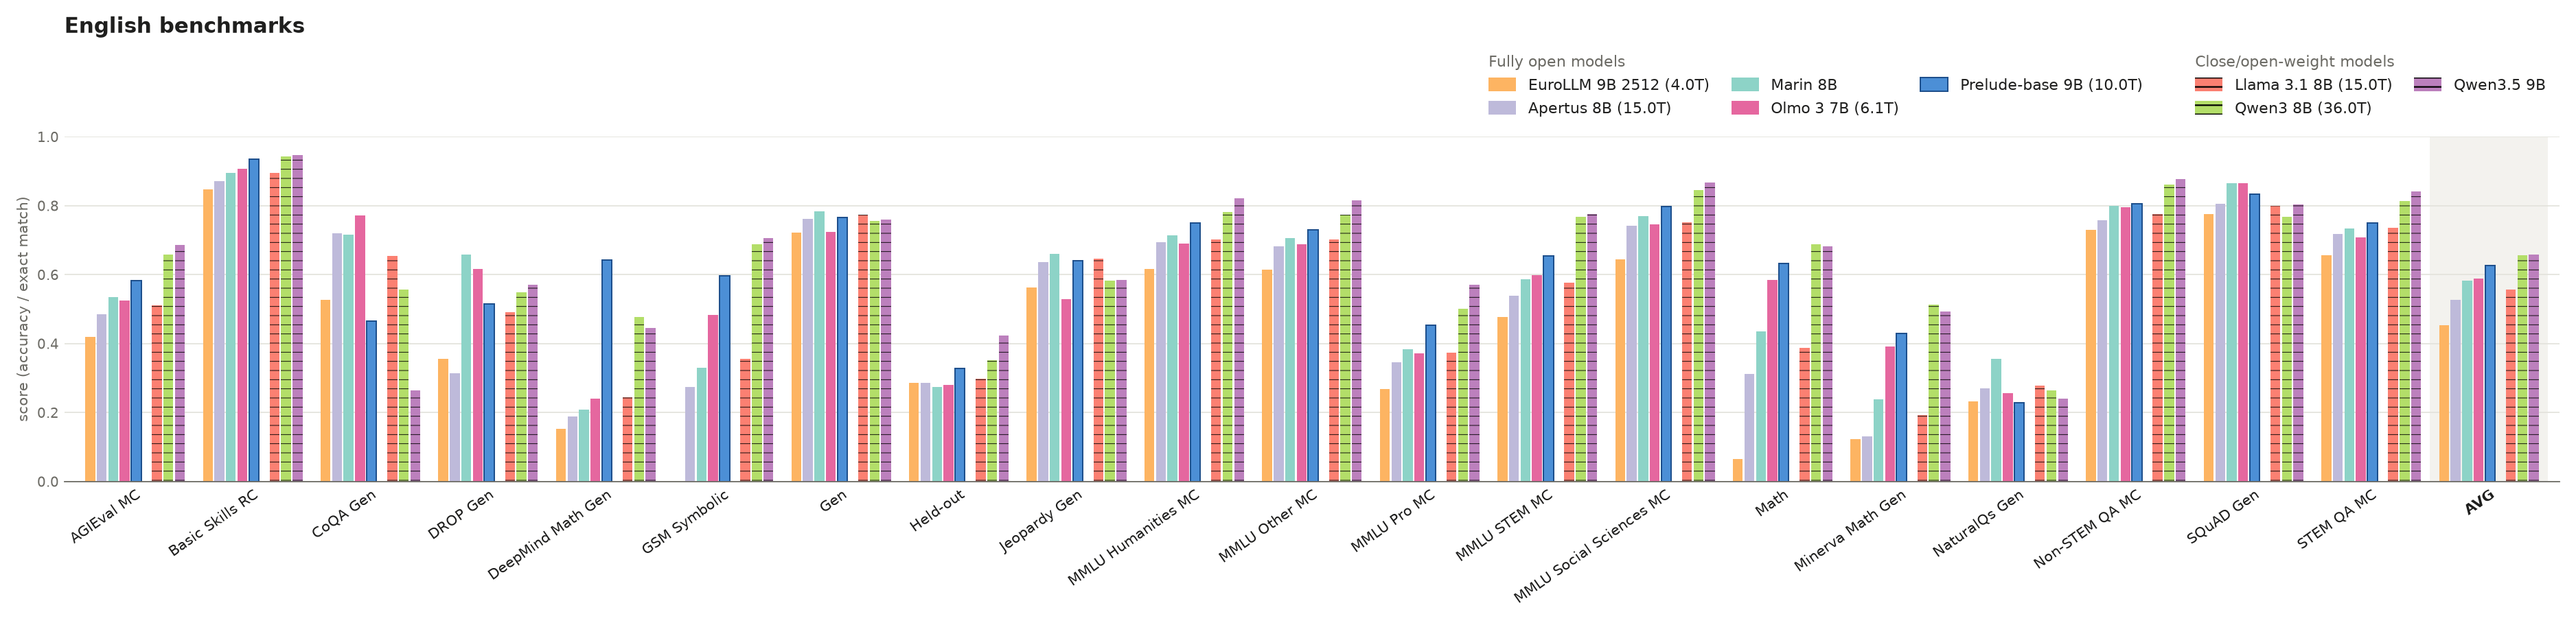
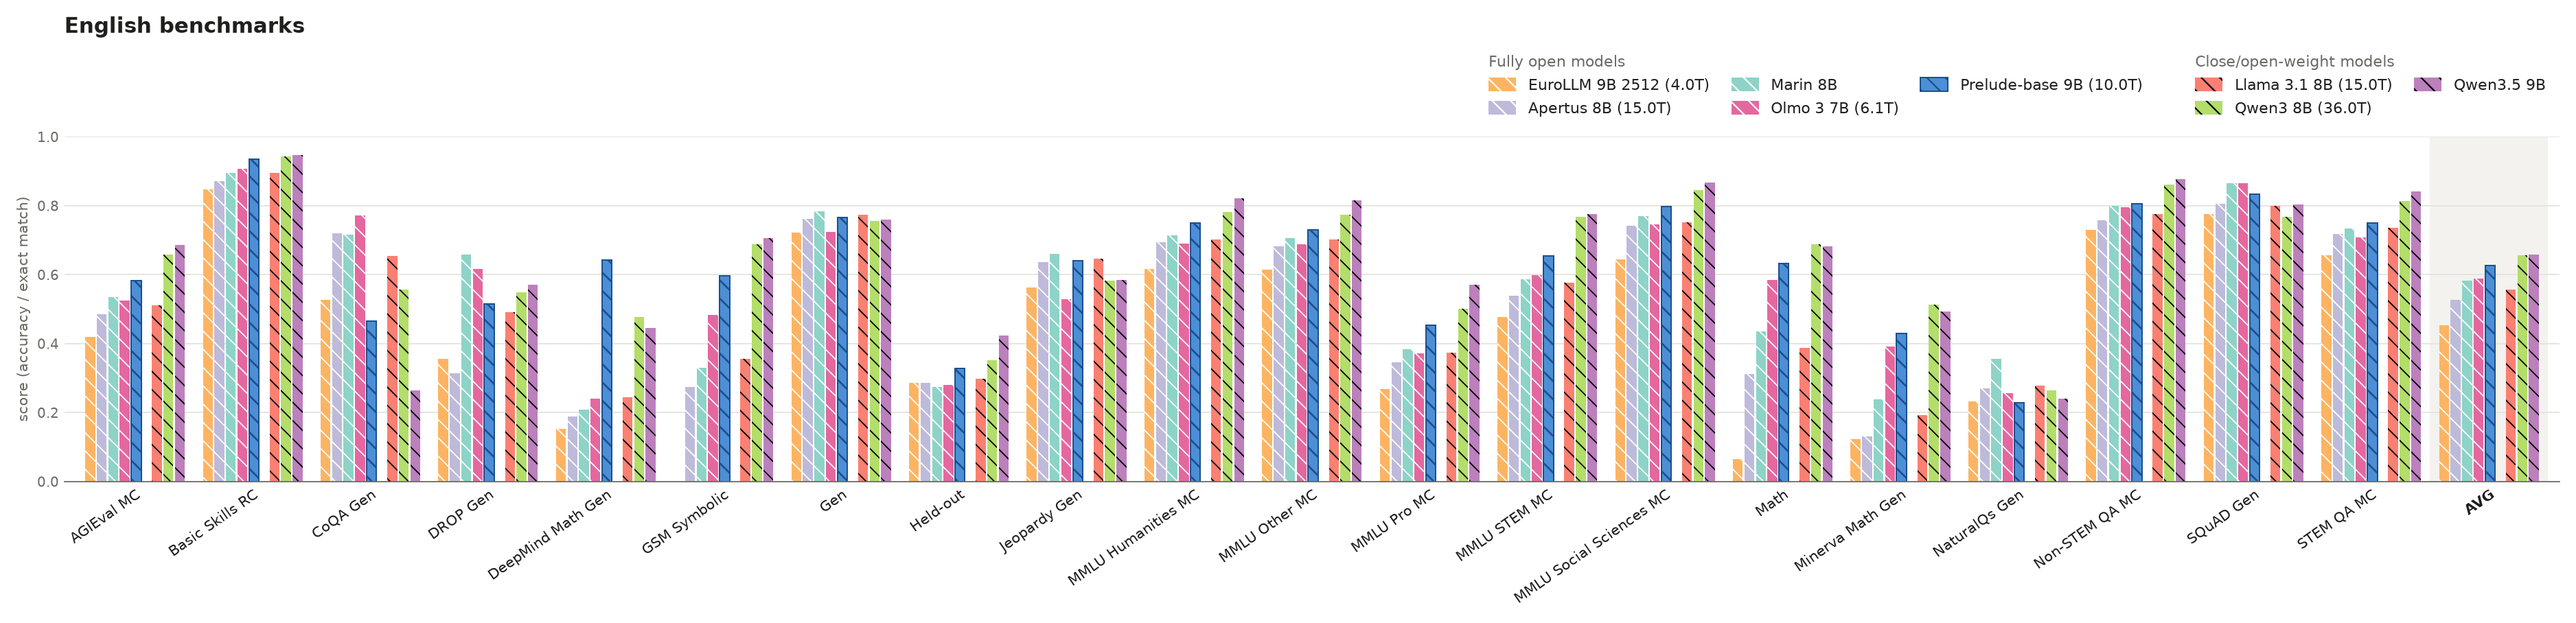
plot edit

diff --git a/prelude-evaluations-model-card/plot_results.py b/prelude-evaluations-model-card/plot_results.py
@@ -205,15 +205,16 @@ DISPLAY = {"Prelude 9B": "Prelude-base 9B",
 NOREVAL_METRICS = ["acc", "f1", "em_first", "errant_f05"]
 
 # One colour per model across all plots (models never shown together share
-# one). Fill encodes openness: solid = fully open (weights + data + code),
-# black horizontal hatch over the fill = open weights only. Every Prelude
-# variant is the same blue; the 8T (pre-anneal) one has a white '\\' hatch.
+# one). Hatch encodes openness: white diagonal = fully open (weights + data +
+# code), black diagonal = open weights only. Every Prelude checkpoint
+# is the same blue with a dark-blue outline and hatch (8T and 10T never
+# share a plot).
 # Baselines use Set3 colours (its blue left unused); Prelude a clearer blue.
 PRELUDE_BLUE = "#4c8fd6"
 PRELUDE_EDGE = "#1d4f8c"   # darker shade of PRELUDE_BLUE for the outline
-OPEN, WEIGHTS, INTERMEDIATE = "fully open", "open weights", "intermediate"
+OPEN, WEIGHTS = "fully open", "open weights"
 STYLES = {   # name -> (colour, style)
-    "Prelude 9B": (PRELUDE_BLUE, INTERMEDIATE),      # 8T, before the anneal
+    "Prelude 9B": (PRELUDE_BLUE, OPEN),              # 8T, before the anneal
     "Prelude 9B + 2T anneal": (PRELUDE_BLUE, OPEN),  # 10T, final
     "Apertus 8B": ("#bebada", OPEN),
     "Olmo 3 7B": ("#e5679f", OPEN),   # Olmo brand pink
@@ -457,15 +458,14 @@ def bars(ax, table: pd.DataFrame, names: dict[str, str]):
         xs = [j - 0.43 + offset for j in range(len(table.columns))]
         color, style = STYLES[names[label]]
         if style == WEIGHTS:
-            kw = dict(facecolor=color, edgecolor="black", hatch="--", linewidth=0,
-                      hatch_linewidth=0.4)
-        elif style == INTERMEDIATE:
-            kw = dict(facecolor=color, edgecolor="white", hatch="\\\\", linewidth=0)
-        else:
-            kw = dict(facecolor=color, linewidth=0)
+            kw = dict(facecolor=color, edgecolor="black", hatch="\\\\", linewidth=0,
+                      hatch_linewidth=0.8)
+        else:                   # fully open: white diagonal hatch
+            kw = dict(facecolor=color, edgecolor="white", hatch="\\\\", linewidth=0,
+                      hatch_linewidth=0.8)
         if names[label].startswith("Prelude"):   # outline only our model
-            kw.update(edgecolor=PRELUDE_EDGE, linewidth=0.9,
-                      hatchcolor=kw.get("edgecolor", "white"))
+            kw.update(edgecolor=PRELUDE_EDGE, linewidth=0.9, hatchcolor=PRELUDE_EDGE,
+                      hatch_linewidth=1.2)
         ax.bar(xs, row, width=slot * 0.86, label=label, zorder=2, **kw)
     if "AVG" in table.columns:
         j = list(table.columns).index("AVG")
@@ -568,8 +568,8 @@ every model of a category has, and averages tasks within each benchmark group
 and then over groups (AVG, which excludes BLEU/chrF translation scores). It
 writes one bar plot per category to `figures/` and regenerates the Results
 section below, where the best value of each column is bold and, in the plots,
-fully open models (solid bars, Prelude last) are followed by open-weight
-models (horizontally hatched bars).
+fully open models (white diagonal hatching, Prelude last, outlined) are
+followed by open-weight models (black diagonal hatching).
 
 """
 

diff --git a/prelude-evaluations-model-card/README.md b/prelude-evaluations-model-card/README.md
@@ -10,12 +10,12 @@ every model of a category has, and averages tasks within each benchmark group
 and then over groups (AVG, which excludes BLEU/chrF translation scores). It
 writes one bar plot per category to `figures/` and regenerates the Results
 section below, where the best value of each column is bold and, in the plots,
-fully open models (solid bars, Prelude last) are followed by open-weight
-models (horizontally hatched bars).
+fully open models (white diagonal hatching, Prelude last, outlined) are
+followed by open-weight models (black diagonal hatching).
 
 # Results
 
-Automatically generated by `plot_results.py` on 2026-11-06; do not edit below this line.
+Automatically generated by `plot_results.py` on 2026-11-09; do not edit below this line.
 
 ## English
 
